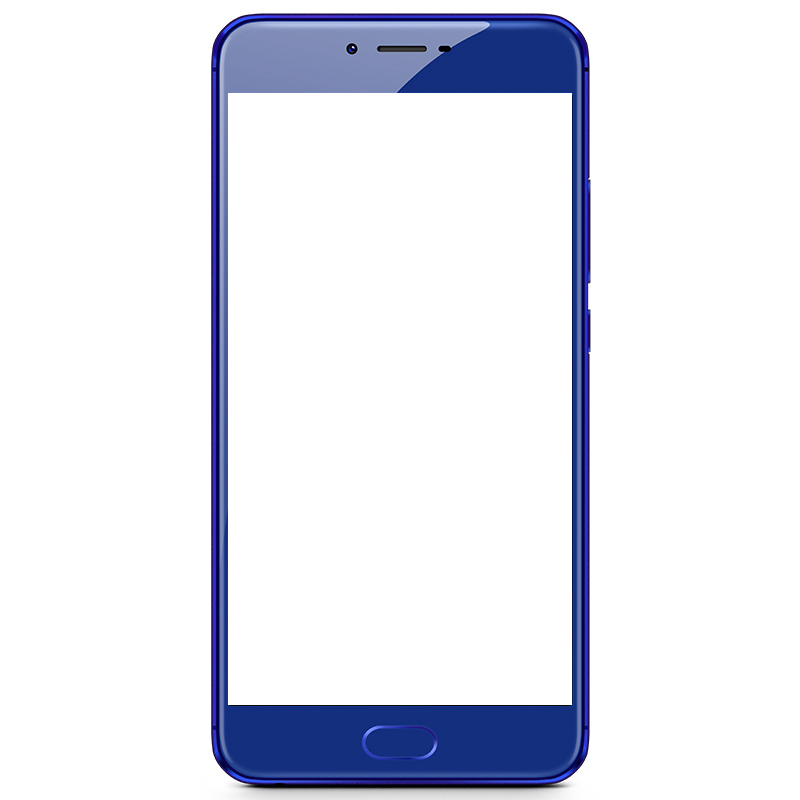
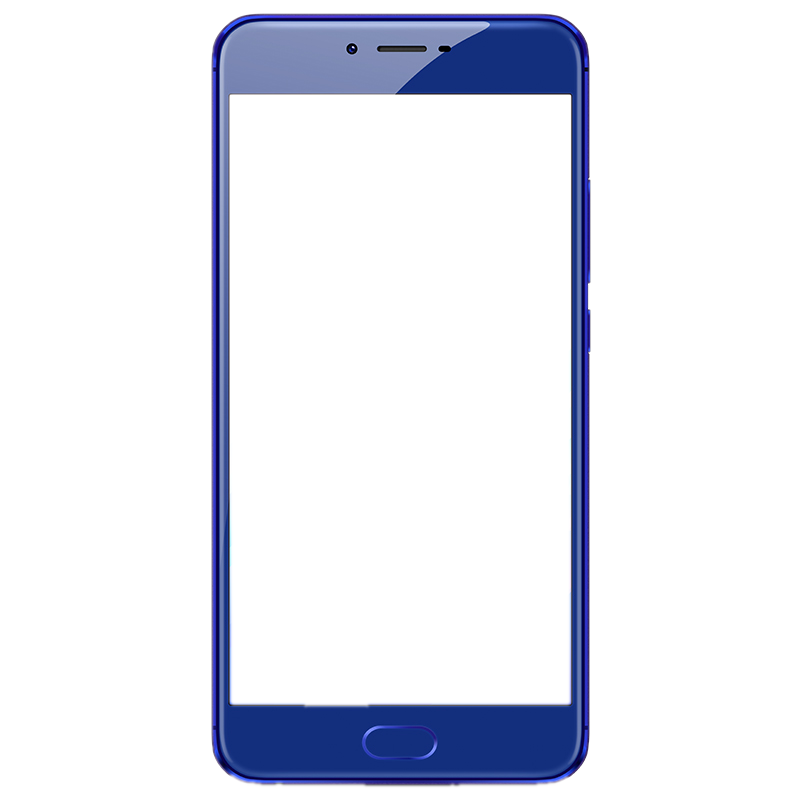
h

diff --git a/index.html b/index.html
@@ -8,7 +8,7 @@
             background-color: whitesmoke;
         }
         #phone{
-            background:url(src/assets/img/background/phone_white.png) center center no-repeat;
+            background:url(src/assets/img/background/phone_blue.png) center center no-repeat;
             background-size: cover;
             height:800px;
             width:500px;
